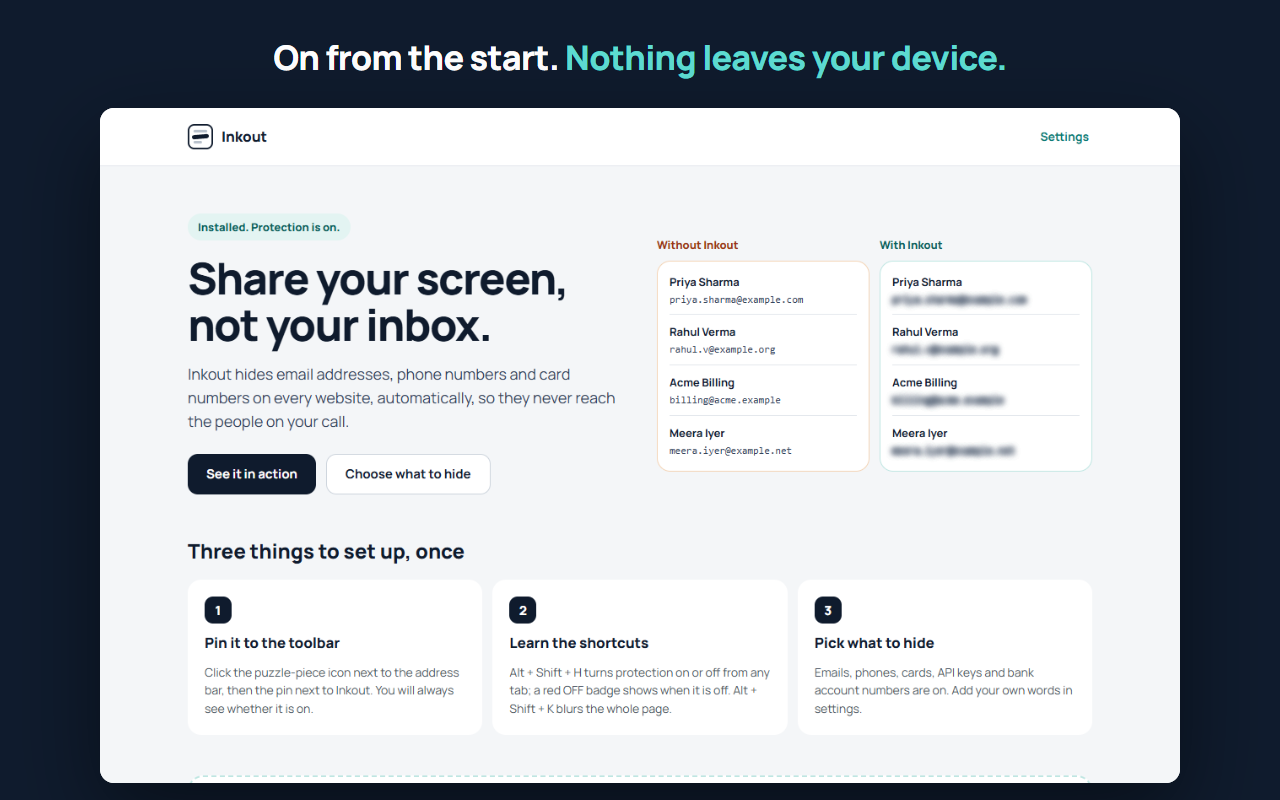
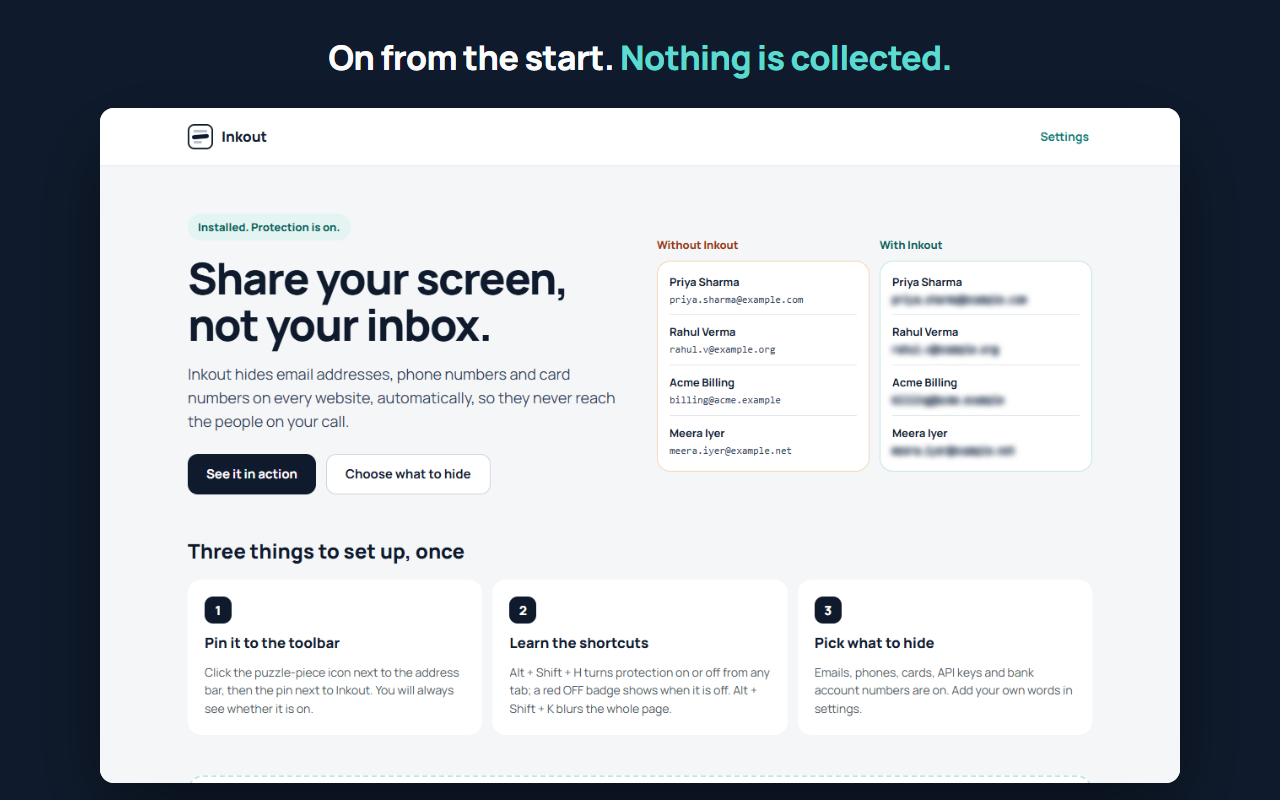
Privacy wording matches Chrome sync: settings may sync, page content never leaves

Changed region(s): [[0.1875, 0.0625, 0.7812, 0.0938]]

diff --git a/tests/wording.test.js b/tests/wording.test.js
@@ -1,0 +1,33 @@
+// Privacy claims on screen must match the privacy policy. Settings (custom words and site lists
+// included) are saved with Chrome sync storage, so Chrome may copy them to the user's other
+// browsers: nothing may say that *everything* stays on the device.
+const test = require('node:test');
+const assert = require('node:assert/strict');
+const fs = require('node:fs');
+const path = require('node:path');
+
+const ROOT = path.join(__dirname, '..');
+const USER_FACING = [
+  'src/popup.html',
+  'src/options.html',
+  'src/welcome.html',
+  'site/index.html',
+  'site/privacy.html',
+  'store/listing.md',
+  'scripts/render.js',
+];
+// "Nothing you see leaves your device" is about page content, which is true, so it is allowed.
+const OVERCLAIMS = [/stays on your device/i, /(?<!you see )leaves your device/i, /nothing leaves the browser/i];
+
+for (const file of USER_FACING) {
+  test(`${file} doesn't claim settings never leave the device`, () => {
+    const text = fs.readFileSync(path.join(ROOT, file), 'utf8');
+    for (const claim of OVERCLAIMS) assert.doesNotMatch(text, claim);
+  });
+}
+
+test('the settings page and the store listing say Chrome sync may copy settings', () => {
+  for (const file of ['src/options.html', 'store/listing.md']) {
+    assert.match(fs.readFileSync(path.join(ROOT, file), 'utf8'), /Chrome sync/i, file);
+  }
+});

diff --git a/site/privacy.html b/site/privacy.html
@@ -43,7 +43,7 @@
       <h2>What Inkout stores</h2>
       <ul>
         <li><b>Your settings</b> (what to hide, your custom words, the hide style, site rules, presenter-mode switches) are saved with Chrome's own sync storage. If you're signed in to Chrome with sync on, Chrome copies them to your other browsers through your Google account, as it does for other extension settings. Inkout has no server and never receives them.</li>
-        <li><b>Per-tab state</b> (how many values are hidden on each tab, which tabs are paused, and which tab is sharing) is kept in Chrome's session storage. It stays on your device and is cleared when you close Chrome.</li>
+        <li><b>Per-tab state</b> (how many values are hidden on each tab, which tabs are paused, and which tab is sharing) is kept in Chrome's session storage. It is kept only in this browser and is cleared when you close Chrome.</li>
       </ul>
       <p>You can remove everything Inkout stores by removing the extension.</p>
 

diff --git a/scripts/render.js b/scripts/render.js
@@ -247,7 +247,7 @@ async function renderStore(chrome) {
       'screenshot-1-inbox.png': framedScreenshot('Emails, phones, cards and bank details <b>blurred on every site</b>', inboxPng),
       'screenshot-2-popup.png': framedScreenshot('See what is hidden. <b>Pause a tab</b> when you need to.', inboxPng, popupPng),
       'screenshot-3-settings.png': framedScreenshot('Choose <b>what to hide</b>, where, and how it looks', settingsPng),
-      'screenshot-4-welcome.png': framedScreenshot('On from the start. <b>Nothing leaves your device.</b>', welcomePng),
+      'screenshot-4-welcome.png': framedScreenshot('On from the start. <b>Nothing is collected.</b>', welcomePng),
     };
     fs.mkdirSync(STORE_DIR, { recursive: true });
     fs.mkdirSync(SITE_IMAGE_DIR, { recursive: true });

diff --git a/src/options.html b/src/options.html
@@ -186,12 +186,13 @@
       </section>
 
       <section id="privacy" class="card dark">
-        <h2>Everything stays on your device</h2>
+        <h2>Inkout collects nothing</h2>
         <div class="promises">
           <span>No account</span>
           <span>No analytics or tracking</span>
-          <span>No data sent anywhere</span>
+          <span>Page content never leaves your browser</span>
         </div>
+        <p>Your settings, custom words and site lists included, are saved in Chrome. If Chrome sync is on, Chrome copies them to your other signed-in browsers, as it does for every extension's settings.</p>
         <a href="https://kunalkumarkkr01.github.io/inkout/privacy.html" target="_blank" rel="noopener">Read the privacy policy</a>
       </section>
 

diff --git a/src/popup.html b/src/popup.html
@@ -65,7 +65,7 @@
       <span class="shortcut"><kbd>Alt</kbd><kbd>Shift</kbd><kbd>H</kbd> to toggle</span>
       <span class="local">
         <svg width="13" height="13" viewBox="0 0 24 24" fill="none" stroke="currentColor" stroke-width="2.2" stroke-linecap="round" stroke-linejoin="round" aria-hidden="true"><rect x="4" y="11" width="16" height="10" rx="2" /><path d="M8 11V7a4 4 0 0 1 8 0v4" /></svg>
-        Stays on your device
+        Collects nothing
       </span>
     </footer>
 

diff --git a/site/index.html b/site/index.html
@@ -44,7 +44,7 @@
             </span>
             <a class="text-button" href="https://github.com/KunalKumarkkr01/inkout#install">Install it from GitHub today</a>
           </div>
-          <p class="fine">Free, no account, nothing leaves your device.</p>
+          <p class="fine">Free, no account, nothing collected.</p>
         </div>
 
         <figure class="call" data-inkout="on" aria-labelledby="call-caption">

diff --git a/store/listing.md b/store/listing.md
@@ -45,7 +45,8 @@ How it works:
 • A red OFF badge tells you before you share if protection is off (Alt+Shift+H)
 
 Private by design:
-• Everything runs on your device. Nothing is collected, stored elsewhere or sent anywhere.
+• Inkout collects nothing and sends nothing anywhere. Page content never leaves your browser.
+• Settings are saved in Chrome; with Chrome sync on, Chrome copies them to your other browsers.
 • No account, no analytics, no ads.
 • Free and open source: https://github.com/KunalKumarkkr01/inkout
 
@@ -57,7 +58,7 @@ Inkout hides sensitive text, such as email addresses, phone numbers and card num
 
 ## Permission justifications
 
-- **storage:** saves the user's settings (what to hide, hide style, site rules) with Chrome sync storage, and remembers temporary per-tab pauses in session storage. Nothing leaves the browser.
+- **storage:** saves the user's settings (what to hide, hide style, site rules) with Chrome sync storage, and remembers temporary per-tab pauses in session storage. Inkout itself sends nothing anywhere; if the user has Chrome sync on, Chrome copies the settings to their other signed-in browsers.
 - **Host access (content scripts on all sites):** sensitive text can appear on any website, so the hiding script has to run on every page the user opens. It only reads the page's text to find values to blur; it never sends page content anywhere and never changes the page's structure.
 
 ## Remote code
